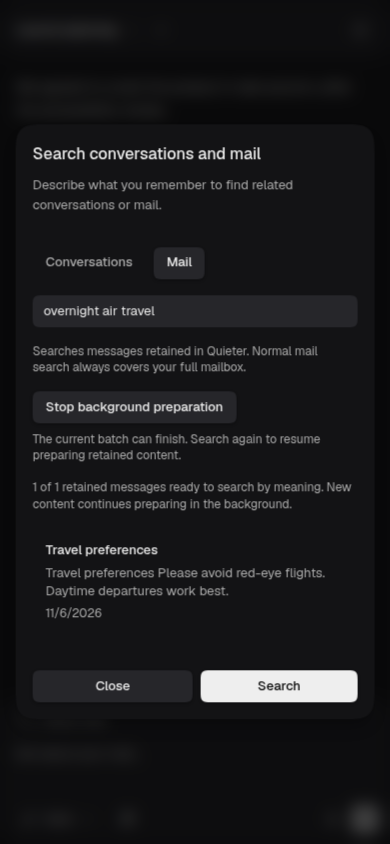
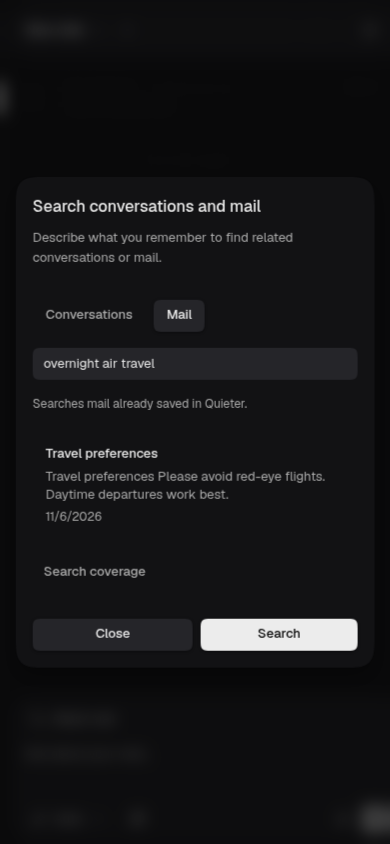
refactor(search): simplify the history search dialog

diff --git a/packages/app/src/features/chat/components/semantic-history-search.tsx b/packages/app/src/features/chat/components/semantic-history-search.tsx
@@ -6,6 +6,11 @@ import { toastError } from "@quieter/app/lib/error-toast";
 import { rpc } from "@quieter/app/lib/orpc";
 import { Button } from "@quieter/ui/button";
 import {
+  Collapsible,
+  CollapsiblePanel,
+  CollapsibleTrigger,
+} from "@quieter/ui/collapsible";
+import {
   Dialog,
   DialogBody,
   DialogCloseButton,
@@ -193,64 +198,9 @@ export const SemanticHistorySearch = ({
               value={query}
             />
             {kind === "mail" ? (
-              <div className="space-y-2">
-                <Text size="caption" tone="muted">
-                  Searches messages retained in Quieter. Normal mail search
-                  always covers your full mailbox.
-                </Text>
-                {preparation.data?.canImport === true &&
-                preparation.data.importRequested ? (
-                  <Text size="caption" tone="muted">
-                    {preparation.data.importComplete
-                      ? "Older mail has been imported."
-                      : "Older mail is being prepared in the background. Results may be incomplete."}
-                  </Text>
-                ) : null}
-                {preparation.data?.canImport === true &&
-                !preparation.data.importRequested ? (
-                  <>
-                    <Text size="caption" tone="muted">
-                      Preparing older mail for search uses your AI balance.
-                    </Text>
-                    <Button
-                      disabled={prepareMail.isPending || search.isFetching}
-                      onClick={() => {
-                        prepareMail.mutate();
-                      }}
-                      type="button"
-                      variant="secondary"
-                    >
-                      {prepareMail.isPending
-                        ? "Starting preparation…"
-                        : "Prepare older mail"}
-                    </Button>
-                  </>
-                ) : null}
-                {preparation.data?.waiting === true ? (
-                  <Text size="caption" tone="muted">
-                    Preparation is waiting for access or available usage. It
-                    will retry automatically.
-                  </Text>
-                ) : null}
-              </div>
-            ) : null}
-            {preparation.data?.active === true ? (
-              <div className="space-y-2">
-                <Button
-                  disabled={pausePreparation.isPending}
-                  onClick={() => {
-                    pausePreparation.mutate();
-                  }}
-                  type="button"
-                  variant="secondary"
-                >
-                  Stop background preparation
-                </Button>
-                <Text size="caption" tone="muted">
-                  The current batch can finish. Search again to resume preparing
-                  retained content.
-                </Text>
-              </div>
+              <Text size="caption" tone="muted">
+                Searches mail already saved in Quieter.
+              </Text>
             ) : null}
             <div aria-live="polite">
               {search.isFetching ? (
@@ -265,37 +215,11 @@ export const SemanticHistorySearch = ({
               ) : null}
               {search.data ? (
                 <div className="space-y-3">
-                  <div className="space-y-2">
+                  {search.data.coverage.complete ? null : (
                     <Text size="caption" tone="muted">
-                      {search.data.coverage.indexedSources} of{" "}
-                      {search.data.coverage.totalSources} retained messages
-                      ready to search by meaning.
-                      {preparation.data?.active === true
-                        ? " New content continues preparing in the background."
-                        : ""}
+                      Results may be incomplete while search is prepared.
                     </Text>
-                    {search.data.coverage.complete ? null : (
-                      <>
-                        <Text size="caption" tone="muted">
-                          Results may be incomplete while more content is
-                          prepared.
-                        </Text>
-                        <Button
-                          onClick={() => {
-                            setSubmitted((previous) =>
-                              previous === null
-                                ? null
-                                : { ...previous, request: previous.request + 1 }
-                            );
-                          }}
-                          type="button"
-                          variant="secondary"
-                        >
-                          Continue preparing search
-                        </Button>
-                      </>
-                    )}
-                  </div>
+                  )}
                   {search.data.items.length === 0 ? (
                     <Text size="sm" tone="muted">
                       No matching history found.
@@ -344,6 +268,113 @@ export const SemanticHistorySearch = ({
                 </div>
               ) : null}
             </div>
+            {search.data !== undefined ||
+            kind === "mail" ||
+            preparation.data?.active === true ? (
+              <Collapsible key={kind}>
+                <CollapsibleTrigger
+                  render={<Button size="sm" type="button" variant="ghost" />}
+                >
+                  Search coverage
+                </CollapsibleTrigger>
+                <CollapsiblePanel>
+                  <div className="min-h-0 space-y-3 overflow-hidden pt-2">
+                    {search.data ? (
+                      <div className="space-y-2">
+                        <Text size="caption" tone="muted">
+                          {search.data.coverage.indexedSources} of{" "}
+                          {search.data.coverage.totalSources} retained messages
+                          ready to search by meaning.
+                          {preparation.data?.active === true
+                            ? " New content continues preparing in the background."
+                            : ""}
+                        </Text>
+                        {search.data.coverage.complete ? null : (
+                          <Button
+                            onClick={() => {
+                              setSubmitted((previous) =>
+                                previous === null
+                                  ? null
+                                  : {
+                                      ...previous,
+                                      request: previous.request + 1,
+                                    }
+                              );
+                            }}
+                            type="button"
+                            variant="secondary"
+                          >
+                            Continue preparing search
+                          </Button>
+                        )}
+                      </div>
+                    ) : null}
+                    {kind === "mail" ? (
+                      <div className="space-y-2">
+                        <Text size="caption" tone="muted">
+                          Normal mail search covers your full mailbox.
+                        </Text>
+                        {preparation.data?.canImport === true &&
+                        preparation.data.importRequested ? (
+                          <Text size="caption" tone="muted">
+                            {preparation.data.importComplete
+                              ? "Older mail has been imported."
+                              : "Older mail is being prepared in the background. Results may be incomplete."}
+                          </Text>
+                        ) : null}
+                        {preparation.data?.canImport === true &&
+                        !preparation.data.importRequested ? (
+                          <>
+                            <Text size="caption" tone="muted">
+                              Preparing older mail for search uses your AI
+                              balance.
+                            </Text>
+                            <Button
+                              disabled={
+                                prepareMail.isPending || search.isFetching
+                              }
+                              onClick={() => {
+                                prepareMail.mutate();
+                              }}
+                              type="button"
+                              variant="secondary"
+                            >
+                              {prepareMail.isPending
+                                ? "Starting preparation…"
+                                : "Prepare older mail"}
+                            </Button>
+                          </>
+                        ) : null}
+                        {preparation.data?.waiting === true ? (
+                          <Text size="caption" tone="muted">
+                            Preparation is waiting for access or available
+                            usage. It will retry automatically.
+                          </Text>
+                        ) : null}
+                      </div>
+                    ) : null}
+                    {preparation.data?.active === true ? (
+                      <div className="space-y-2">
+                        <Button
+                          disabled={pausePreparation.isPending}
+                          onClick={() => {
+                            pausePreparation.mutate();
+                          }}
+                          type="button"
+                          variant="secondary"
+                        >
+                          Stop background preparation
+                        </Button>
+                        <Text size="caption" tone="muted">
+                          The current batch can finish. Search again to resume
+                          preparing retained content.
+                        </Text>
+                      </div>
+                    ) : null}
+                  </div>
+                </CollapsiblePanel>
+              </Collapsible>
+            ) : null}
           </DialogBody>
           <DialogFooter>
             <DialogCloseButton>Close</DialogCloseButton>

diff --git a/docs/reviews/semantic-search/actual-app-verification.md b/docs/reviews/semantic-search/actual-app-verification.md
@@ -9,17 +9,21 @@ Verified through the normal authenticated application and Cloudflare Worker on p
 - **Stop.** **Stop background preparation** removed the owned chat registration, verified independently in PostgreSQL. Retained content and completed vectors remained available.
 - **Older mail.** The Gmail fixture showed the AI-balance notice before opt-in. **Prepare older mail** persisted an import request and displayed pending preparation. The stop action canceled it before any provider import. The actual paged importer and recovery behavior have separate transport and database tests; no live Gmail history was downloaded in this verification.
 - **Responsive layout.** Results remained readable in the narrow dark dialog and desktop light dialog. The native thread reader opened correctly at narrow width.
+- **Minimal default view.** Conversation and mail results sit directly below the query. **Search coverage** reveals counts, continuation, older-mail preparation and stop controls. Desktop light and narrow dark checks confirmed the collapsed and expanded layouts. Stopping preparation through the disclosure removed its action after the request completed.
 
 | State | Screenshot |
 | --- | --- |
 | Conversation result | [Desktop light](../../screenshots/semantic-search/conversation-results-light.png) |
 | Mail result | [Desktop light](../../screenshots/semantic-search/mail-results-light.png) |
 | Mail result | [Narrow dark](../../screenshots/semantic-search/mail-results-narrow-dark.png) |
+| Optional coverage controls | [Narrow dark](../../screenshots/semantic-search/coverage-controls-narrow-dark.png) |
 | Canonical message reader | [Narrow dark](../../screenshots/semantic-search/opened-mail-narrow-dark.png) |
 | Mail reader opened from calendar search | [Desktop light](../../screenshots/semantic-search/calendar-to-mail-light.png) |
 | Incomplete preparation | [Desktop light](../../screenshots/semantic-search/partial-preparation-light.png) |
 | Older-mail balance notice | [Before opt-in](../../screenshots/semantic-search/older-mail-opt-in-light.png) |
 | Durable import request | [After opt-in](../../screenshots/semantic-search/older-mail-requested-light.png) |
+
+The conversation and mail result screenshots show the final minimal layout. The partial-preparation and older-mail captures record those flows before their controls were grouped under **Search coverage**.
 
 The browser, server and disposable database belong to this task. The browser and server were stopped after verification, and approved ignored development configuration was restored and passed `env:doctor`. Kernel OOM records confirmed the earlier interrupted browser attempts; successful verification followed after reducing the owned server heap and leaving unrelated services untouched.
 

diff --git a/docs/reviews/semantic-search/README.md b/docs/reviews/semantic-search/README.md
@@ -44,7 +44,7 @@ The broader run passed 2,020 tests with 491 configured skips, and the combined d
 
 Repository-wide local `vp check --fix` completed formatting, then its type-aware analysis process was killed by host memory pressure before source analysis. Targeted checks passed. The unchanged full lint/type configuration subsequently passed in [CI on 497c14c7](https://github.com/quieter-email/quieter/actions/runs/42314220142/job/128222790885), together with general tests, database integration, deployment safety and the web build. That code was synchronized with main. The [pull request checks](https://github.com/quieter-email/quieter/pull/499/checks) report the latest publication status.
 
-[Actual application verification](actual-app-verification.md) used real embeddings and native source records, not a replacement page or mocked RPC. Desktop light and narrow dark screenshots cover results, source navigation, preparation progress and optional older-mail registration.
+[Actual application verification](actual-app-verification.md) used real embeddings and native source records, not a replacement page or mocked RPC. Desktop light and narrow dark screenshots cover results, source navigation, preparation progress and optional older-mail registration. The default dialog keeps the query and results visible; optional preparation controls live under **Search coverage**.
 
 ## Run locally
 
